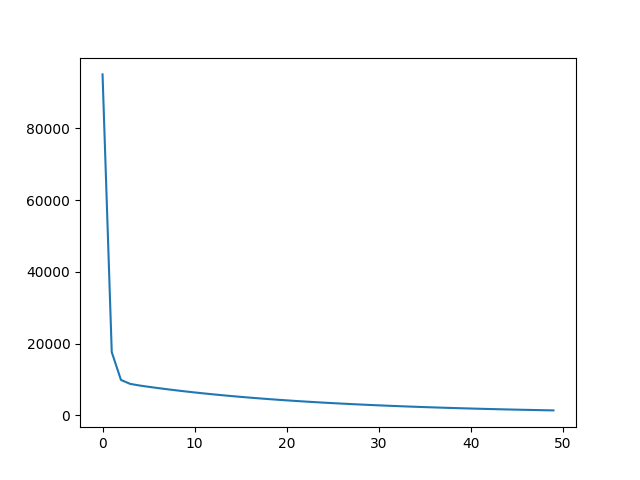
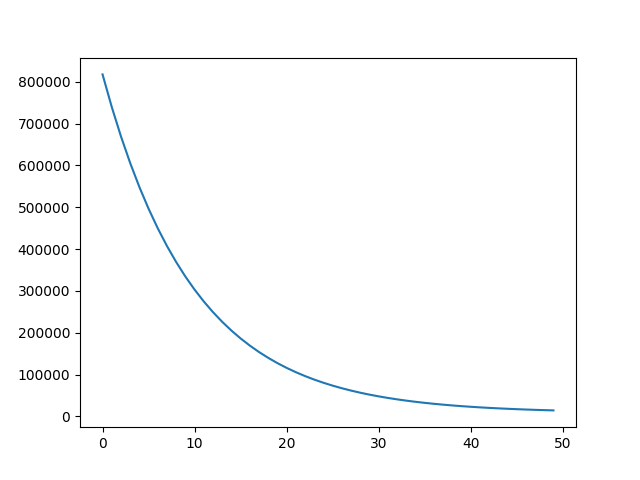
Task 2 derivative fix

diff --git a/Task2.py b/Task2.py
@@ -18,7 +18,7 @@ def calculate_objective(x):
 
 
 def compute_gradient(x):
-    return 2 * A.transpose() @ (A @ x - b)
+    return 1/A.shape[0] * A.transpose() @ (A @ x - b)
 
 
 def gradient_descent(x0, step_size, end_condition):

diff --git a/README.md b/README.md
@@ -15,17 +15,17 @@ Step sizes 0.1 and 0.01 don't converge
 
 Step size 0.1:
 
-Execution time is 0.0009922981262207031 seconds
+Execution time is 0.0010008811950683594 seconds
 ![Figure 7](Figure_7.png)
 
 Step size 1/L1:
 
-Execution time is 0.0010688304901123047 seconds
+Execution time is 0.0009982585906982422 seconds
 ![Figure 6](Figure_6.png)
 
 Step size 1/L2 for ||x|| < 20:
 
-Execution time is 0.000997304916381836 seconds
+Execution time is 0.0009996891021728516 seconds
 ![Figure 8](Figure_8.png)
 L2 <= 49452
 I chose L2 = 400
